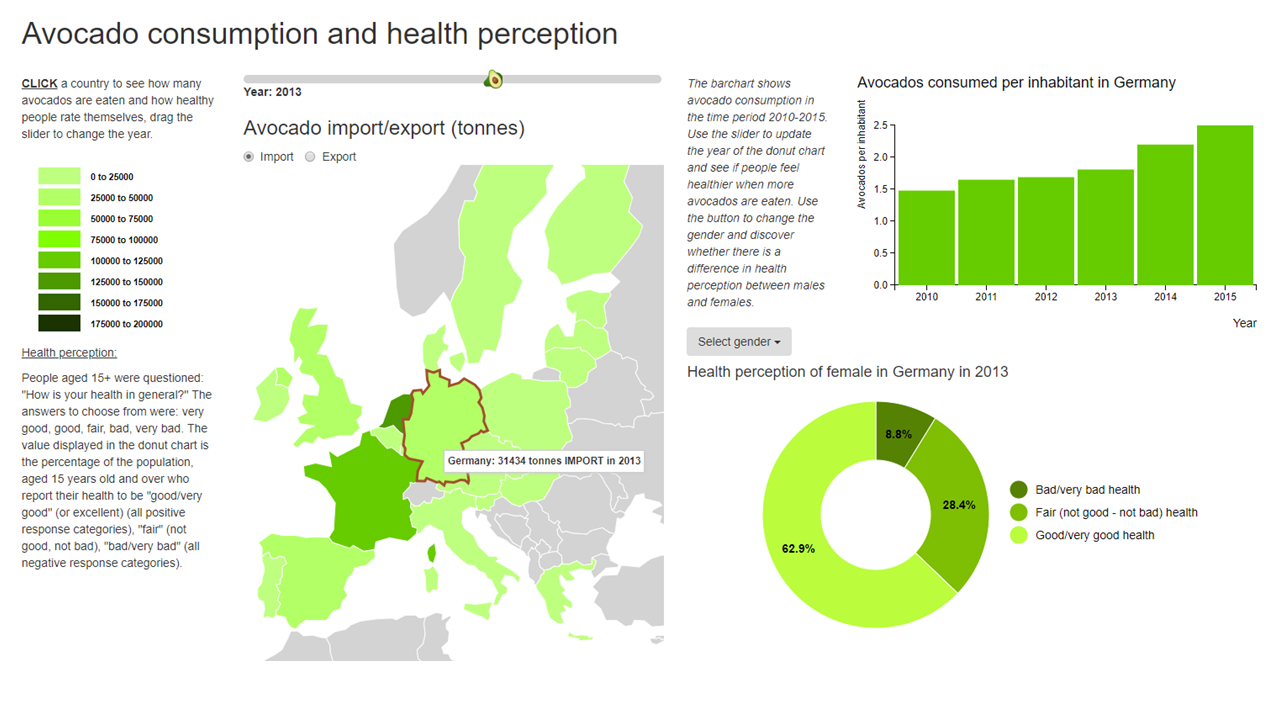
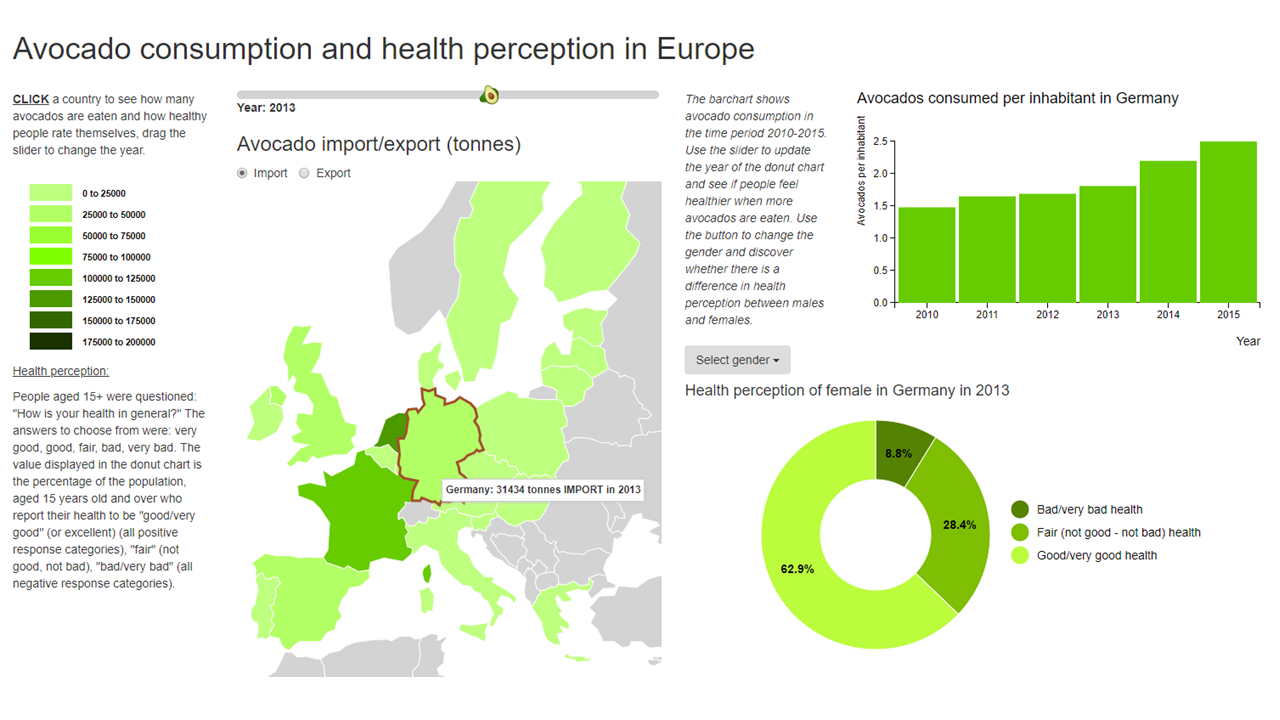
readme

Changed region(s): [[0.0, 0.0306, 1.0, 0.9472], [0.5938, 0.6111, 0.6562, 0.7028], [0.5, 0.55, 0.5312, 0.5806]]

diff --git a/sources.html b/sources.html
@@ -37,7 +37,7 @@ html code for the sources page
     </nav>
 
     <div class="container">
-      <h1>Avocado consumption and health perception</h1></br>
+      <h1>Avocado consumption and health perception in Europe</h1></br>
       <img src="data/sounds_images/avos.jpg" alt="Avocados" style="width:710px;height:400px;">
       <p><h3>Text sources:</h3>
       <a href="https://www.healthline.com/nutrition/12-proven-benefits-of-avocado#section5">12 proven benefits of avocado</a></br>

diff --git a/index.html b/index.html
@@ -42,7 +42,7 @@ html code for the home page
           <source src="data/sounds_images/guacamole_song.mp3" type="audio/mpeg">
         </audio>
 
-        <h1>Avocado consumption and health perception</h1></br>
+        <h1>Avocado consumption and health perception in Europe</h1></br>
 
         <!-- Carousel  -->
         <div id="myCarousel" class="carousel slide" data-ride="carousel" style="position:relative; width: 80%; height: 58.5%;">

diff --git a/visualisation.html b/visualisation.html
@@ -50,7 +50,7 @@ html code for the data visualisation page
       </nav>
 
       <div class="container-fluid">
-        <h1>Avocado consumption and health perception</h1></br>
+        <h1>Avocado consumption and health perception in Europe</h1></br>
 
         <div class="row">
             <div class="col-md-2">

diff --git a/README.md b/README.md
@@ -1,24 +1,23 @@
 # Project
+## Avocado consumption and health perception in Europe
 
 Dewi Mooij 10752978
 
 [Project](https://DMooij.github.io/programmeerproject/index.html)
 
 # Purpose
-
 Since the rise of fitgirls, avocados have become a very popular food. However, the circumstances in Europe are unsuitable for avocado farming, which is why large amounts of avocados are imported throughout the year from avocado producing countries such as Mexico and Peru. As avocados are a superfood and considered to be very healthy, it is interesting to try and find a connection between the amount of avocados imported by a country for consumption and the health perception of its inhabitants.  
 
-This project aims to visualize the amount of avocados imported and exported in Europe in the time period 2010-2015 and to explore the connection between the amount of avocados consumed by a countries inhabitants and their health perception.
-
-# Features
-
+This project aims to visualize the amount of avocados imported and exported in Europe in the time period 2010-2015 and to explore the connection between the amount of avocados consumed by a countries inhabitants and their health perception. The project is aimed at people with an interest in health and nutrition.
 
 # Project
 ![Project](doc/project.png)
 
-# Copyright
+# Features
+The webpage is initialized with a map of Europe, a barchart and a donut chart. On the map the European countries are coloured in different shades of green, reflecting the amount of avocados the country imports/exports (what is shown depends on what is selected from a checkbox). On hovering over a country the exact amount of avocados imported/exported is shown. On click on a country the two other graphs are updated to show data of the selected country. The barchart shows the amount of avocados consumed per inhabitant in the period 2010-2015. The donut chart displays the health perception indicated as percentage of one of the 3 categories bad/very bad - fair - good/very good. This chart can be updated according to gender (total/male/female) using a dropdown menu. Finally, the webpage features a slider to select a year for the data of the map and donut chart.
 
-## Sounds
+# Copyright
+## Sound
 - [Avocado song](https://www.youtube.com/watch?v=JNsKvZo6MDs)
 
 ## Images

diff --git a/REPORT.md b/REPORT.md
@@ -2,7 +2,7 @@
 
 ## Project description
 
-This project aims to visualize the amount of avocados imported and exported in Europe in the time period 2010-2015 and to explore the connection between the amount of avocados consumed by a countries inhabitants and their health perception.
+This project aims to visualize the amount of avocados imported and exported in Europe in the time period 2010-2015 and to explore the connection between the amount of avocados consumed by a countries inhabitants and their health perception. 
 
 ![project](doc/project.png)
 

diff --git a/PROCESS.md b/PROCESS.md
@@ -99,3 +99,8 @@
 - avoiding nesting in map and donut ruins everything, so decided to work on report instead
 - added info text to home page
 - added sources page
+
+## Day 19 - 28 June 2018
+
+- Finished and submitted code
+- worked on report and update README
